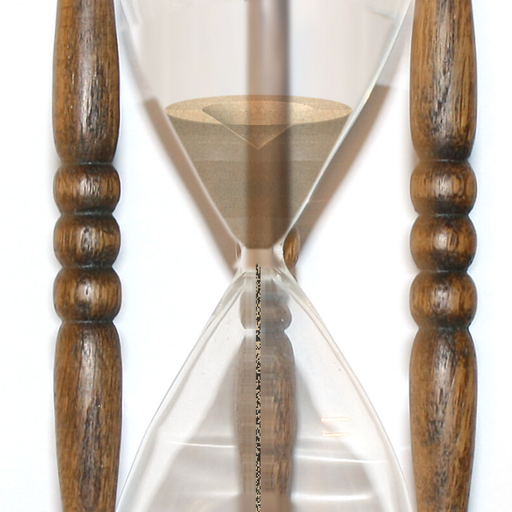
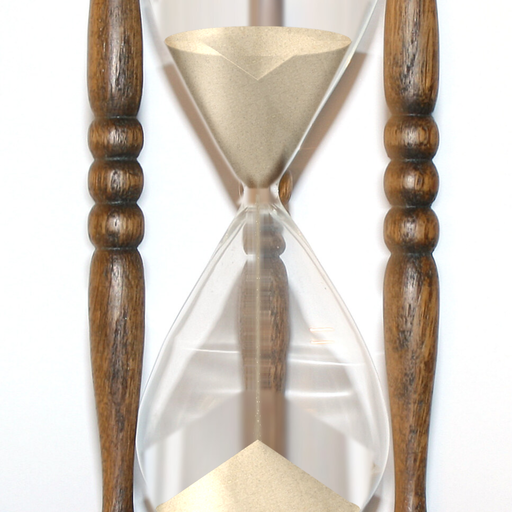
fix: show the hourglass sand behind the glass and finish the run
The atlas's wall-distance channel was zero everywhere, a multiplier a
thousand times too small, so the emptied-glass panel was blended over
all of the sand: the rear post showed through the pile, nothing took
wall shading or the glass highlight, and the lower bulb read as empty
mid-run even though the volumes summed correctly.

The neck stream was hash cells bottoming out at a fifth brightness,
which read as black speckle; it is now a translucent gaussian thread
with sparse sparkle that widens as it lands. The Done state kept a few
pixels of sand up top because the level solve skipped changes under a
thousandth; endpoints are now solved unconditionally. Past the repose
angle the funnel and pile flatten, since a cone cannot sit on a slope
already at repose, and the destination cone credit uses the radius the
shader actually draws, so conservation holds to two percent at every
tilt.

Card copy now opens with an imperative like its neighbours. Thumbnail
recaptured mid-run with both volumes visible.

Claude-Session: https://claude.ai/code/session_01MYgJDumHFGETXWCh37fS7V

diff --git a/example/src/components/hourglass/Hourglass.tsx b/example/src/components/hourglass/Hourglass.tsx
@@ -103,7 +103,10 @@ const TAN_REPOSE: f32 = 0.684;   // tan(34 deg): the slope dry sand holds
 // half-width.
 const ELLIPSE: f32 = 0.16;
 const EDGE: f32 = 1.4;            // px of anti-aliasing on every sand edge
-const STREAM_W: f32 = 3.2;        // half-width of the falling stream, px
+const STREAM_W: f32 = 4.5;        // half-width of the falling stream, px (the neck is 16)
+// The cone's crease is not a knife edge: grains round it off over this many
+// px of radius, so the lit and shadowed faces meet softly.
+const CREASE: f32 = 14.0;
 const LIGHT: vec2<f32> = vec2<f32>(-0.62, -0.78); // from the upper left, gravity frame
 
 fn hash21(p: vec2<f32>) -> f32 {
@@ -141,11 +144,14 @@ fn shotAt(pp: vec2<f32>) -> vec3<f32> { return panelAt(pp, 1.0); }
 fn dataAt(pp: vec2<f32>) -> vec3<f32> { return panelAt(pp, 2.0); }
 
 // The photo's own sand, tiled without a seam: the grain rectangle is walked
-// with a triangle wave in each axis, so it mirrors at every edge.
-fn grainAt(g: vec2<f32>) -> vec3<f32> {
+// with a triangle wave in each axis, so it mirrors at every edge. The tile
+// frame is turned a little and shifted half a tile, or the mirror lines run
+// straight down the glass's own axis of symmetry and read as a fold.
+fn grainAt(g0: vec2<f32>) -> vec3<f32> {
   let r = u.params1;
-  let px = r.x + tri(g.x / r.z) * r.z;
-  let py = r.y + tri(g.y / r.w) * r.w;
+  let g = vec2<f32>(g0.x * 0.94 - g0.y * 0.34, g0.x * 0.34 + g0.y * 0.94);
+  let px = r.x + tri(g.x / r.z + 0.5) * r.z;
+  let py = r.y + tri(g.y / r.w + 0.5) * r.w;
   return shotAt(vec2<f32>(px, py));
 }
 
@@ -182,12 +188,16 @@ fn solveZ(t: f32, s: f32, base: f32, k: f32, sgn: f32, ek: f32, z0: f32, z1: f32
 // Lambert shading of the surface at (t, z): its normal leans along the cone.
 fn surfShade(t: f32, z: f32, k: f32, sgn: f32) -> f32 {
   let rho = max(sqrt(t * t + z * z), 0.001);
-  let onCone = step(rho * TAN_REPOSE, k);
+  let onCone = 1.0 - smoothstep(-CREASE, CREASE, rho * TAN_REPOSE - k);
   let lean = sgn * onCone * TAN_REPOSE / rho;
   let n = normalize(vec3<f32>(lean * t, 1.0, lean * z));
-  let l = normalize(vec3<f32>(-0.45, 0.72, 0.53));
+  // Mostly from above, a little from the left and the camera: the photo's
+  // pile shows its near and far flanks at almost the same tone.
+  let l = normalize(vec3<f32>(-0.5, 0.85, 0.25));
   let diff = max(0.0, dot(n, l));
-  return 0.62 + 0.58 * diff;
+  // Dry sand scatters most of its light back, so a slope only shifts its
+  // brightness a little: the photo's own pile is nearly flat in tone.
+  return 0.74 + 0.40 * diff;
 }
 
 @fragment
@@ -264,7 +274,7 @@ fn main(@location(0) ndc: vec2<f32>) -> @location(0) vec4<f32> {
     disc = 1.0;
   } else if (s >= backLo && s <= backHi) {
     let z = solveZ(t, s, base, k, sgn, ek, -zmax, 0.0);
-    shade = surfShade(t, z, k, sgn) * 0.92;
+    shade = surfShade(t, z, k, sgn) * 0.96;
     disc = 1.0;
   } else if (s > bottomOfSurface) {
     // The fill's side: darker toward the walls, where the glass thickens,
@@ -292,18 +302,24 @@ fn main(@location(0) ndc: vec2<f32>) -> @location(0) vec4<f32> {
 
   var col = mix(empty, sand, sandMask);
 
-  // The stream: a thin column of grain from the neck to the pile, only while
-  // the sand runs. Grain scrolls with the integrated phase, never time x speed.
-  // It falls from the neck until it meets sand, so it is drawn wherever the
-  // fragment is not already sand.
-  let inStream = smoothstep(STREAM_W + 1.0, STREAM_W - 0.5, abs(tg))
-               * smoothstep(-2.0, 4.0, sg)
-               * clamp(inside + data.z, 0.0, 1.0) * (1.0 - sandMask);
-  if (inStream > 0.001 && streamOn > 0.001) {
-    let cell = vec2<f32>(floor(tg / 2.2), floor((sg - streamPhase) / 2.6));
-    let dots = smoothstep(0.35, 0.65, hash21(cell)) * 0.8 + 0.2;
-    let sCol = grainAt(vec2<f32>(tg * 3.0, sg * 0.5 - streamPhase * 0.3)) * 0.92 * dots;
-    col = mix(col, sCol, inStream * streamOn * (0.85 + 0.15 * dots));
+  // The stream: a thin column of grain falling from the neck until it meets
+  // sand, only while the sand runs. Seen from a phone's width away a sand
+  // stream is a soft translucent thread, not separate grains: a gaussian
+  // across, the glass showing through its edges, a few bright grains catching
+  // the light, and a little wider just before it lands where the grains
+  // scatter. Grain scrolls with the integrated phase, never time x speed.
+  let inGlass = max(inside, smoothstep(0.0, 0.1, wallD));
+  let landing = ld - peak;
+  let w = STREAM_W * (1.0 + 0.5 * smoothstep(landing - 50.0, landing, sg));
+  let across = exp(-(tg * tg) / (w * w));
+  let inStream = across * smoothstep(-2.0, 4.0, sg) * inGlass * (1.0 - sandMask);
+  if (inStream > 0.002 && streamOn > 0.001) {
+    let fall = sg - streamPhase;
+    let cell = vec2<f32>(floor(tg / 1.8), floor(fall / 2.4));
+    let sparkle = smoothstep(0.94, 0.995, hash21(cell));
+    // A falling column is denser than a lit surface, so a shade darker.
+    let sCol = grainAt(vec2<f32>(tg * 2.0, fall * 0.6)) * 0.9 + vec3<f32>(0.22) * sparkle;
+    col = mix(col, sCol, inStream * streamOn * 0.85);
   }
 
   return vec4<f32>(col, 1.0);

diff --git a/example/src/hooks/useHourglassPhysics.ts b/example/src/hooks/useHourglassPhysics.ts
@@ -184,6 +184,11 @@ function solveGeometry(f: number, psi: number): Geometry {
   const vDst = SAND_VOLUME - vSrc;
   const gx = Math.sin(psi);
   const gy = Math.cos(psi);
+  // The sand frame only turns once the glass is past repose, and then the
+  // slope is all the sand can hold: a funnel or a pile on top of it would
+  // avalanche downhill. So both flatten as the frame turns, their volume
+  // going back into the flat fill.
+  const coneK = 1 - smoothstep(0.08, 0.42, Math.abs(gx));
   // Turned over, the lower bulb is the source and the upper the floor.
   const over = gy < 0;
   const srcPts = over ? DST_PTS : SRC_PTS;
@@ -216,7 +221,8 @@ function solveGeometry(f: number, psi: number): Geometry {
       }
       lu = 0.5 * (lo + hi);
       wu = widthAt(WALL.neckY - lu * gy);
-      depth = Math.max(0, Math.min(TAN_REPOSE * wu * FUNNEL_REACH, lu - 6));
+      depth =
+        Math.max(0, Math.min(TAN_REPOSE * wu * FUNNEL_REACH, lu - 6)) * coneK;
       vCone = coneVolume(depth / TAN_REPOSE, depth);
     }
   }
@@ -229,7 +235,7 @@ function solveGeometry(f: number, psi: number): Geometry {
   let wl = floorW;
   if (vDst > 0) {
     const rFree = Math.cbrt((3 * vDst) / (Math.PI * TAN_REPOSE));
-    if (rFree <= floorW) {
+    if (rFree <= floorW && coneK > 0.999) {
       // A cone on the floor: the floor itself is round, so the level sits a
       // little below where the cone's base would meet a flat one.
       peak = rFree * TAN_REPOSE;
@@ -241,8 +247,11 @@ function solveGeometry(f: number, psi: number): Geometry {
       for (let i = 0; i < 22; i++) {
         const mid = 0.5 * (lo + hi);
         const w = widthAt(WALL.neckY + mid * gy);
-        const h = Math.min(w * TAN_REPOSE, mid - 30);
-        const total = volumeBeyond(dstPts, gx, gy, mid) + coneVolume(w, h);
+        const h = Math.min(w * TAN_REPOSE, mid - 30) * coneK;
+        // The cone drawn on top is at repose slope whatever its height, so
+        // its base is h / tan, not the full width at the level.
+        const total =
+          volumeBeyond(dstPts, gx, gy, mid) + coneVolume(h / TAN_REPOSE, h);
         if (total > vDst) {
           lo = mid;
         } else {
@@ -251,11 +260,16 @@ function solveGeometry(f: number, psi: number): Geometry {
       }
       ld = 0.5 * (lo + hi);
       wl = widthAt(WALL.neckY + ld * gy);
-      peak = Math.max(0, Math.min(wl * TAN_REPOSE, ld - 30));
+      peak = Math.max(0, Math.min(wl * TAN_REPOSE, ld - 30)) * coneK;
     }
   }
 
   return { lu, depth, ld, peak, wu, wl };
+}
+
+function smoothstep(e0: number, e1: number, x: number): number {
+  const t = Math.max(0, Math.min(1, (x - e0) / (e1 - e0)));
+  return t * t * (3 - 2 * t);
 }
 
 function wrapAngle(a: number): number {
@@ -501,8 +515,14 @@ export function useHourglassPhysics(): HourglassPhysics {
         Math.min(1, s.totalS > 0 ? s.remainingS / s.totalS : 0)
       );
       // The solve walks a few thousand points; only redo it once the fraction
-      // or the frame has moved enough to show.
-      if (Math.abs(f - geoF) > 0.0008 || Math.abs(psi - geoPsi) > 0.003) {
+      // or the frame has moved enough to show. The ends are always solved
+      // exactly, or a run could finish with the last sliver still up top.
+      const atEnd = (f === 0 || f === 1) && f !== geoF;
+      if (
+        atEnd ||
+        Math.abs(f - geoF) > 0.0008 ||
+        Math.abs(psi - geoPsi) > 0.003
+      ) {
         s.geo = solveGeometry(f, psi);
         geoF = f;
         geoPsi = psi;

diff --git a/example/src/screens/HourglassScreen.tsx b/example/src/screens/HourglassScreen.tsx
@@ -27,8 +27,12 @@ const PANEL_W = 967;
 const PANEL_H = 2102;
 /** The neck's centre, canvas px. */
 const NECK = { x: 487, y: 1072 };
-/** A rectangle inside the photo's lower pile, canvas px: the grain texture. */
-const GRAIN = { x: 395, y: 1520, w: 180, h: 120 };
+/**
+ * A rectangle of the photo's upper sand body, canvas px: the grain texture.
+ * It is the flattest-lit sand in the photo (the lower pile's flanks carry the
+ * cone's shading, which tiled into visible bands).
+ */
+const GRAIN = { x: 400, y: 760, w: 180, h: 140 };
 /**
  * Where the wooden cap and base sit on the canvas, as fractions of its height:
  * the timer sits on the cap, the duration chips on the base.

diff --git a/example/src/screens/HomeScreen.tsx b/example/src/screens/HomeScreen.tsx
@@ -14,7 +14,7 @@ const EXAMPLE_CATEGORIES: ExampleCategory[] = [
   {
     id: 'hourglass',
     title: 'Hourglass',
-    description: 'A Pomodoro timer — tilt the sand, flip your phone to restart',
+    description: 'Run a Pomodoro — tilt the sand, flip your phone to restart',
     screen: 'HourglassExample',
     color: '#8a6a3c',
     image: require('../../assets/components/hourglass.png'),
